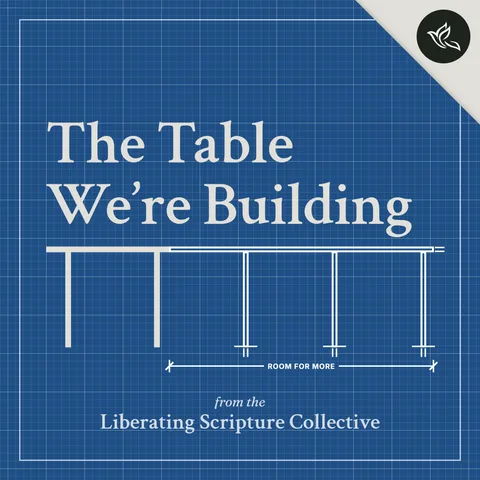
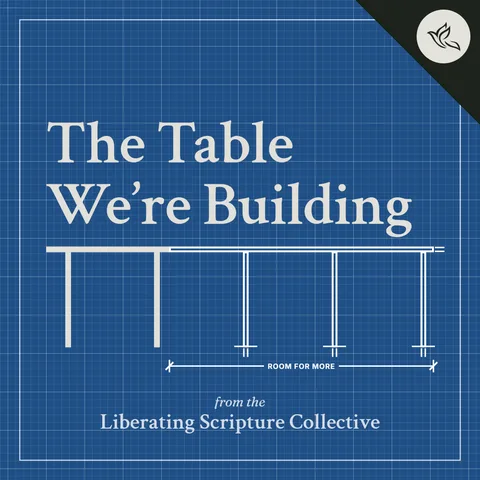
fix(podcasts): swap TWB cover to the ink-corner art, ring the covers
Replaces twb-cover.png with the revised art (same 2000x2000 master size):
the cut corner is now ink with a cream dove disc, where #83's was cream
with an ink disc. twb-cover-480.webp and og-podcasts.png regenerate from it.

That ink corner is all but identical to the OG card's INK field and close
to the dark-mode card surface (#2E322E), so on both it vanished and the
cover read as clipped. Both now draw a hairline ring around the covers:
a 2px cream ring at 35% just outside each OG tile, and a 1px var(--border)
spread shadow on the /podcasts cover images. FIT gets the same ring so the
pair matches (it also gives FIT's cream art an edge on the white card).

Only og-podcasts.png changes among the OG cards; its og:image goes to ?v=3.

Changed region(s): [[0.75, 0.0, 1.0, 0.25]]

diff --git a/CLAUDE.md b/CLAUDE.md
@@ -126,7 +126,9 @@ public/                 # Served as-is at the site root:
                         #   twb-cover.png (2000² square show art) stays for
                         #   JSON-LD/crawlers and the OG podcasts card; the
                         #   podcasts page loads twb-cover-480.webp from
-                        #   `build:images` (O3)
+                        #   `build:images` (O3). Its ink corner merges into
+                        #   the dark card and the OG ink field, so both draw a
+                        #   hairline ring around the covers — keep it
   assets/screenshots/   # App screenshots for /apps, as WebP — copied byte-for-
                         #   byte from litbible, but by hand, not CI (see Apps Page)
     carousel/           #   Hebrews 1 in each of the five liturgical seasons,
